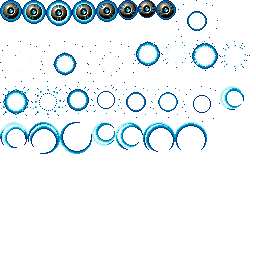
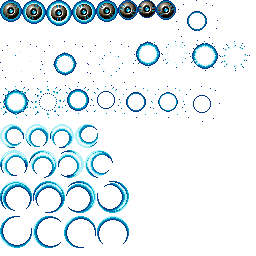
added unit trails logic and animations

diff --git a/ModulePlayerUnit.cpp b/ModulePlayerUnit.cpp
@@ -221,28 +221,49 @@ ModulePlayerUnit::ModulePlayerUnit()
 	trailsParticles[0].anim.speed = 0.03f;*/
 	//trailsParticles[0].speed = 0.01f;
 
-	
-	/*trailsData[0].anim->PushBack({ 220,86,24,24 });
-	trailsData[0].anim->PushBack({ 220,86,-24,24 });
-	trailsData[0].anim->PushBack({ 220,86,24,-24 });
-	trailsData[0].anim->PushBack({ 220,86,-24,-24 });
+	// trail 1
+	trailsData[0].anim.PushBack({ 0,124,24,24 });
+	trailsData[0].anim.PushBack({ 25,124,24,23 });
+	trailsData[0].anim.PushBack({ 50,124,24,24 });
+	trailsData[0].anim.PushBack({ 75,124,-23,-24 });
+	trailsData[0].anim.PushBack({ 0,124,-24,-24 });
+	trailsData[0].anim.PushBack({ 25,124,-24,-23 });
+	trailsData[0].anim.PushBack({ 50,124,-24,-24 });
+	trailsData[0].anim.PushBack({ 75,124,23,24 });
+	trailsData[0].anim.speed = 0.125f;
 
-	trailsData[0].anim->PushBack({ 92,122,23,24 });
-	trailsData[0].anim->PushBack({ 92,122,-23,24 });
-	trailsData[0].anim->PushBack({ 92,122,23,-24 });
-	trailsData[0].anim->PushBack({ 92,122,-23,-24 });
-	trailsData[0].anim->speed = 0.03f;
+	// trail 2
+	trailsData[1].anim.PushBack({ 0,150,28,26 });
+	trailsData[1].anim.PushBack({ 29,150,28,28 });
+	trailsData[1].anim.PushBack({ 59,150,26,28 });
+	trailsData[1].anim.PushBack({ 86,150,-28,-28 });
+	trailsData[1].anim.PushBack({ 0,150,-28,-26 });
+	trailsData[1].anim.PushBack({ 29,150,-28,-28 });
+	trailsData[1].anim.PushBack({ 59,150,-26,-28 });
+	trailsData[1].anim.PushBack({ 86,150,28,28 });
+	trailsData[1].anim.speed = 0.125f;
 
-	trailsData[1].anim->PushBack({ 220,86,24,24 });
-	trailsData[1].anim->PushBack({ 220,86,-24,24 });
-	trailsData[1].anim->PushBack({ 220,86,24,-24 });
-	trailsData[1].anim->PushBack({ 220,86,-24,-24 });
+	// trail 3
+	trailsData[2].anim.PushBack({ 0,181,32,30 });
+	trailsData[2].anim.PushBack({ 33,181,32,32 });
+	trailsData[2].anim.PushBack({ 66,181,30,32 });
+	trailsData[2].anim.PushBack({ 97,181,32,32 });
+	trailsData[2].anim.PushBack({ 0,181,-32,-30 });
+	trailsData[2].anim.PushBack({ 33,181,-32,-32 });
+	trailsData[2].anim.PushBack({ 66,181,-30,-32 });
+	trailsData[2].anim.PushBack({ 97,181,-32,-32 });
+	trailsData[2].anim.speed = 0.125f;
 
-	trailsData[1].anim->PushBack({ 92,122,23,24 });
-	trailsData[1].anim->PushBack({ 92,122,-23,24 });
-	trailsData[1].anim->PushBack({ 92,122,23,-24 });
-	trailsData[1].anim->PushBack({ 92,122,-23,-24 });
-	trailsData[1].anim->speed = 0.03f;*/
+	// trail 4
+	trailsData[3].anim.PushBack({ 0,216,32,32 });
+	trailsData[3].anim.PushBack({ 33,216,28,32 });
+	trailsData[3].anim.PushBack({ 64,216,32,32 });
+	trailsData[3].anim.PushBack({ 98,216,32,28 });
+	trailsData[3].anim.PushBack({ 0,216,-32,-32 });
+	trailsData[3].anim.PushBack({ 33,216,-28,-32 });
+	trailsData[3].anim.PushBack({ 64,216,-32,-32 });
+	trailsData[3].anim.PushBack({ 98,216,-32,-28 });
+	trailsData[3].anim.speed = 0.125f;
 	
 
 
@@ -528,12 +549,70 @@ update_status ModulePlayerUnit::PreUpdate()
 			this_state = actualState::POSITIONING;
 
 	}
-	else if (this_state == actualState::POSITIONING)
+
+	// trails movement calculations  ---------------------------------------------------
+	if (this_state != actualState::LINKED)
 	{
-		//float positioningSpeed = 0.07f;
-		//playerPos.x += positioningSpeed;
-		//playerPos.y += positioningSpeed;
+
+		// positions -----
+		//first trail: linked to unit, manage it different
+
+		trailsData[0].targetPos.x = playerPos.x;
+		trailsData[0].targetPos.y = playerPos.y;
+
+		trailsData[0].distance = trailsData[0].currentPos.DistanceTo(trailsData[0].targetPos);
+
+		int targetDistance = 0;
+
+		if (this_state == actualState::POSITIONING) targetDistance = 0;
+		else targetDistance = 20;
+
+		if (trailsData[0].distance >= targetDistance)
+		{
+			trailsData[0].tx = playerPos.x - trailsData[0].currentPos.x;
+			trailsData[0].ty = playerPos.y - trailsData[0].currentPos.y;
+
+			trailsData[0].velX = (trailsData[0].tx / trailsData[0].distance * trailsData[0].speed);
+			trailsData[0].velY = (trailsData[0].ty / trailsData[0].distance * trailsData[0].speed);
+
+			trailsData[0].tPosX = trailsData[0].velX + 1;
+			trailsData[0].tPosY = trailsData[0].velY;
+
+			trailsData[0].currentPos.x += trailsData[0].tPosX;
+			trailsData[0].currentPos.y += trailsData[0].tPosY;
+
+		}
+
+
+		//rest of trails, linked to its anterior trail
+
+		for (int i = 1; i < NUM_TRAILS; ++i) //links each trail position to its anterior trail
+		{
+			trailsData[i].targetPos = trailsData[i - 1].currentPos;
+
+			//trailsData[i].currentPos.x += 1; //compensate player default speed x
+
+			trailsData[i].distance = trailsData[i].currentPos.DistanceTo(trailsData[i - 1].currentPos);
+
+			if (trailsData[i].distance >= targetDistance)
+			{
+				trailsData[i].tx = trailsData[i - 1].currentPos.x - trailsData[i].currentPos.x;
+				trailsData[i].ty = trailsData[i - 1].currentPos.y - trailsData[i].currentPos.y;
+
+				trailsData[i].velX = (trailsData[i].tx / trailsData[i].distance * trailsData[i].speed);
+				trailsData[i].velY = (trailsData[i].ty / trailsData[i].distance * trailsData[i].speed);
+
+				trailsData[i].tPosX = trailsData[i].velX + 1;
+				trailsData[i].tPosY = trailsData[i].velY;
+
+				trailsData[i].currentPos.x += trailsData[i].tPosX;
+				trailsData[i].currentPos.y += trailsData[i].tPosY;
+
+			}
+		}
+
 	}
+	
 
 	return UPDATE_CONTINUE;
 }
@@ -756,54 +835,30 @@ update_status ModulePlayerUnit::Update()
 	}
 	else if (this_state == actualState::FREE || this_state == actualState::RETURN)
 	{
-		// call animations function
+		// call animations function // draw unit
 
 		SDL_Rect throwRect = freeAnim.GetCurrentFrame();
 		App->render->Blit(chargeGraphics,
 			playerPos.x - 2 - throwPivots[(int)freeAnim.current_frame],
 			playerPos.y - 2 - throwPivots[(int)freeAnim.current_frame],
 			&throwRect);
-
-		//ptrTrailParticle->position.x = playerPos.x;
-		//ptrTrailParticle->position.y = playerPos.y + 20;
-
-		now_trail_time = SDL_GetTicks() - start_next_trail_time;
-
-		if (now_trail_time >= next_trail_time && trailsCounter <= 2)
-		{
-			trailsCounter++;
-			start_next_trail_time = SDL_GetTicks();
-		}
-
-		/*for (int i = 0; i < trailsCounter; ++i)
-		{
-			int tx = (App->player[playerIndex]->position.x + 9) - (playerPos.x);
-			int ty = (App->player[playerIndex]->position.y - 4) - (playerPos.y);
-
-			fPoint thisPosition;
-			thisPosition.x = playerPos.x;
-			thisPosition.y = playerPos.y;
-
-			trailsPosition[i].x = thisPosition.x;
-			trailsPosition[i].y = thisPosition.y;
-
-			
-
-			//get sqrt distance
-			trailsDistance[i] = thisPosition.DistanceTo(trailsPosition[i]);
-
-			float velX = (tx / trailsDistance[i])*unitBoomerangSpeed;
-			float velY = (ty / trailsDistance[i])*unitBoomerangSpeed;
-
-			thisPosition.x += velX + 1;
-			thisPosition.y += velY;
-
-			App->render->Blit(chargeGraphics,trailsPosition[i].x,trailsPosition[i].y, &trailsAnim[i].GetCurrentFrame());
-		}*/
-		
-		
-
 	}
+
+	// draw unit trails
+
+	if (this_state != actualState::LINKED)
+	{
+		for (int i = 0; i < NUM_TRAILS; ++i)
+		{
+			Animation* current_trailAnim;
+			current_trailAnim = &trailsData[i].anim;
+			SDL_Rect trailRect = current_trailAnim->GetCurrentFrame();
+
+			App->render->Blit(chargeGraphics, trailsData[i].currentPos.x + 6 - (abs(trailRect.w) / 2), trailsData[i].currentPos.y + 7 - (abs(trailRect.h) / 2), &trailRect);
+
+		}
+	}
+	
 	return UPDATE_CONTINUE;
 }
 
@@ -822,10 +877,32 @@ void ModulePlayerUnit::boomerangShot(float charge)
 	start_boomerang_time = SDL_GetTicks();
 	start_next_trail_time = SDL_GetTicks();
 
-	for (int i = 0; i < 2; ++i)
+	//links first trail to unit position
+	//trailsData[0].targetPos.x = playerPos.x;
+	//trailsData[0].targetPos.y = playerPos.y;
+
+	for (int i = 0; i < NUM_TRAILS; ++i) //assigns initial positions
 	{
-		//trailsData[i].initialPos = 
+
+		trailsData[i].tx = App->player[playerIndex]->position.x - playerPos.x;
+		trailsData[i].ty = App->player[playerIndex]->position.y - playerPos.y;
+
+		trailsData[i].tx *= 0.3f; // "substract" vector position to positioning first position
+		trailsData[i].ty *= 0.3f;
+
+		trailsData[i].currentPos.x = trailsData[i].tx + playerPos.x;
+		trailsData[i].currentPos.y = trailsData[i].ty + playerPos.y;
+
+		// assigns initial pos to returning to start point
+		trailsData[i].initialPos = trailsData[i].currentPos;
+
+		//assigns speeds
+		trailsData[i].speed = unitBoomerangSpeed;
+
 	}
+
+	
+	
 
 }
 

diff --git a/ModulePlayerUnit.h b/ModulePlayerUnit.h
@@ -2,6 +2,7 @@
 #define __MODULEPLAYERUNIT_H__
 
 #define MAX_ANIMS 16
+#define NUM_TRAILS 4
 
 #include "Module.h"
 #include "Animation.h"
@@ -96,7 +97,7 @@ public:
 	float vy = 0.0f;
 	float posX = 0.0f;
 	float posY = 0.0f;
-	float unitBoomerangSpeed = 4.5f;
+	float unitBoomerangSpeed = 7.5f;//4.5f;
 	float positioningSpeed = 2.5f;
 	float increaseVectorX = 0;
 	float increaseVectorY = 0;
@@ -122,7 +123,7 @@ public:
 
 	struct trailsInfo
 	{
-		Animation* anim;
+		Animation anim;
 		iPoint initialPos;
 		iPoint currentPos;
 		iPoint targetPos;
@@ -131,11 +132,16 @@ public:
 		float maxDistance;
 		float tx;
 		float ty;
+		float velX;
+		float velY;
+		float speed;
 		int pivotsX[8];
 		int pivotsY[8];
+		float tPosX;
+		float tPosY;
 	};
 
-	trailsInfo trailsData[4];
+	trailsInfo trailsData[NUM_TRAILS];
 
 
 };
